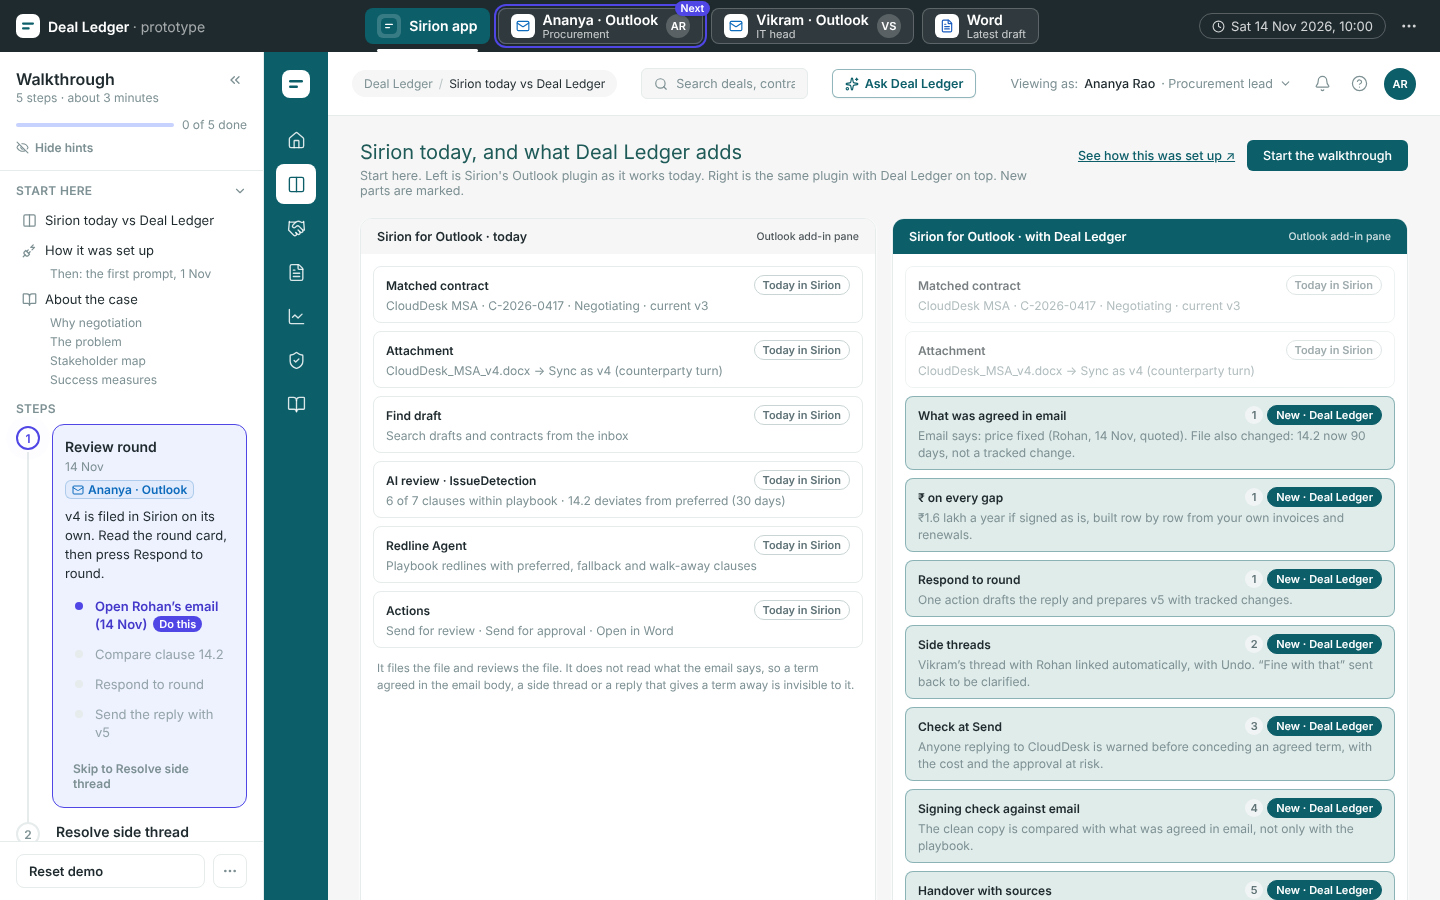
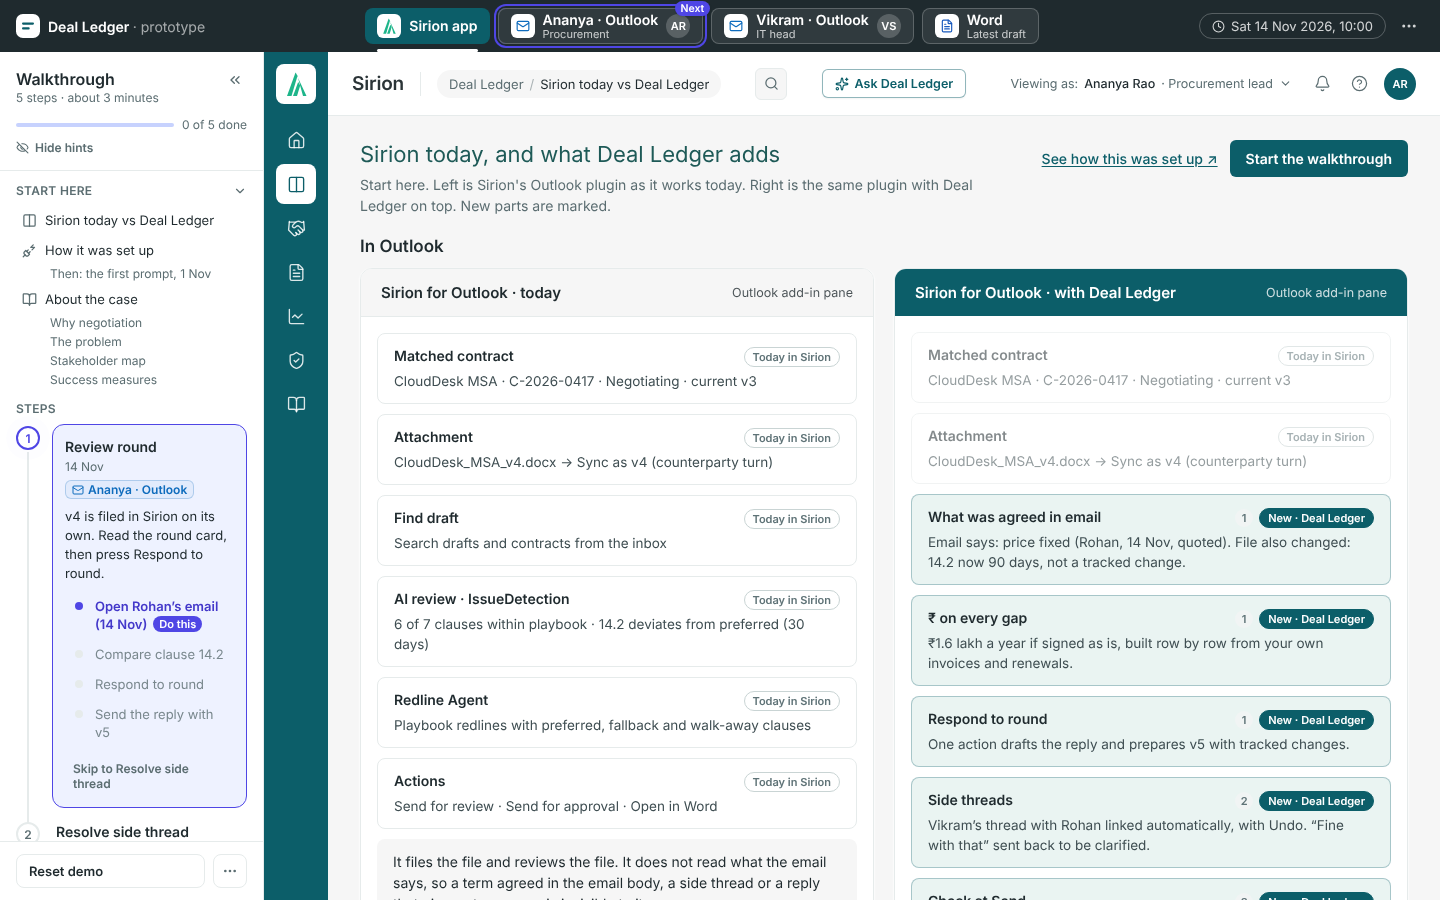
Sirion mark top-left; readable type on the Sirion today page
- Redrawn Sirion mark (SVG) in the app sidebar and the app switcher, with the
  Sirion name in the top bar; Deal Ledger keeps its own mark (CLAUDE.md rule 4
  updated)
- Today page: 14px body text, larger headings, In Word section rebuilt as two
  structured feature lists instead of grey bullet text
- Secondary text colour darkened to 5.3:1 contrast across the app; larger page
  and card captions
- Top bar: search collapses to an icon below 1536px, breadcrumb stays on one line
- Screenshots in docs/screens regenerated

Claude-Session: https://claude.ai/code/session_01TFLZc3kXuMhpPCiCoPvkW9

diff --git a/app/(sirion)/today/page.tsx b/app/(sirion)/today/page.tsx
@@ -1,4 +1,5 @@
 import Link from 'next/link';
+import { Check, Plus } from 'lucide-react';
 import { PageHeader, SirionCard } from '@/components/sirion/ui';
 import { termsFound } from '@/lib/data';
 import { StepBadge, Tag } from '@/components/ui/Tag';
@@ -26,14 +27,32 @@ const NEW = [
   { title: 'Handover with sources', body: 'Obligations and invoice rules each link back to the email line they came from.', step: 5 },
 ];
 
+const WORD_TODAY = [
+  { title: 'Content Library', body: 'Insert approved clauses.' },
+  { title: 'Review', body: 'Track changes, compare versions and flag risk with AI.' },
+  { title: 'Redline Agent', body: 'Preferred, fallback and walk-away clauses.' },
+  { title: 'Approve and publish', body: 'Changes are saved back as a new version.' },
+  { title: 'Share', body: 'Send to the counterparty through the Sirion portal.' },
+];
+
+const WORD_NEW = [
+  { title: 'Ledger lens', body: 'A marker beside every clause shows whether it matches what was agreed in email, with the source and the ₹ at stake.' },
+  { title: 'Edit guard', body: 'An edit that moves an agreed term is flagged as you type, with the cost and the approval it would need.' },
+  { title: 'Insert from ledger', body: 'The exact agreed wording, next to the Content Library, with a supplier-safe comment.' },
+  { title: 'Compare with email', body: 'Each change between rounds is tagged “discussed in email”, “not mentioned in email” or “not a tracked change”.' },
+  { title: 'Signing check', body: 'Runs when the clean copy arrives. Each gap shows the email line it came from and the approval that depends on it.' },
+  { title: '₹ on each option', body: 'A figure on the agreed wording, the fallback and the walk-away.' },
+  { title: 'Supplier-safe comments', body: 'No ₹ figures, internal names or limits in anything the supplier sees.' },
+];
+
 function Pane({ title, tone, children }: { title: string; tone: 'today' | 'new'; children: React.ReactNode }) {
   return (
     <div className="overflow-hidden rounded-xl border border-line bg-white shadow-card">
-      <div className={`flex items-center justify-between px-4 py-2.5 text-[12.5px] font-semibold ${tone === 'today' ? 'bg-page text-ink' : 'bg-teal-900 text-white'}`}>
-        <span>{title}</span>
-        <span className="text-[10.5px] font-medium opacity-80">Outlook add-in pane</span>
+      <div className={`flex items-center justify-between px-5 py-3.5 ${tone === 'today' ? 'border-b border-line bg-page text-ink' : 'bg-teal-900 text-white'}`}>
+        <span className="text-[15px] font-semibold">{title}</span>
+        <span className="text-[12.5px] opacity-80">Outlook add-in pane</span>
       </div>
-      <div className="space-y-2 p-3">{children}</div>
+      <div className="space-y-2.5 p-4">{children}</div>
     </div>
   );
 }
@@ -42,20 +61,43 @@ function Block({ title, body, kind, step }: { title: string; body: string; kind:
   return (
     <div
       className={[
-        'rounded-lg border px-3 py-2 text-[12px] leading-[17px]',
-        kind === 'new' ? 'border-teal-900/40 bg-mint/40' : 'border-line',
-        kind === 'dim' ? 'opacity-60' : '',
+        'rounded-lg border px-4 py-3',
+        kind === 'new' ? 'border-teal-900/30 bg-[#EAF4F2]' : 'border-line bg-white',
+        kind === 'dim' ? 'opacity-55' : '',
       ].join(' ')}
     >
-      <p className="flex items-center justify-between gap-2 font-semibold text-ink">
-        <span>{title}</span>
-        <span className="flex shrink-0 items-center gap-1">
+      <div className="flex items-start justify-between gap-3">
+        <p className="text-[14px] font-semibold leading-[20px] text-ink">{title}</p>
+        <span className="flex shrink-0 items-center gap-1.5 pt-[1px]">
           {kind === 'new' && step ? <StepBadge step={step} /> : null}
           <Tag kind={kind === 'dim' ? 'today' : kind} />
         </span>
-      </p>
-      <p className="mt-0.5 text-muted">{body}</p>
+      </div>
+      <p className="mt-1 text-[13.5px] leading-[20px] text-[#3F4E52]">{body}</p>
     </div>
+  );
+}
+
+function FeatureList({ items, tone }: { items: { title: string; body: string }[]; tone: 'today' | 'new' }) {
+  const Icon = tone === 'new' ? Plus : Check;
+  return (
+    <ul className="divide-y divide-line">
+      {items.map((f) => (
+        <li key={f.title} className="flex gap-3 py-3 first:pt-0 last:pb-0">
+          <span
+            className={`mt-[2px] grid h-5 w-5 shrink-0 place-items-center rounded-full ${
+              tone === 'new' ? 'bg-teal-900 text-white' : 'border border-line bg-page text-muted'
+            }`}
+          >
+            <Icon size={12} strokeWidth={2.5} />
+          </span>
+          <div className="min-w-0">
+            <p className="text-[14px] font-semibold leading-[20px] text-ink">{f.title}</p>
+            <p className="mt-0.5 text-[14px] leading-[21px] text-[#3F4E52]">{f.body}</p>
+          </div>
+        </li>
+      ))}
+    </ul>
   );
 }
 
@@ -67,20 +109,21 @@ export default function TodayPage() {
         caption="Start here. Left is Sirion's Outlook plugin as it works today. Right is the same plugin with Deal Ledger on top. New parts are marked."
         right={
           <span className="flex flex-wrap items-center gap-3">
-            <Link href="/setup" className="text-[12.5px] font-medium text-teal-900 underline">
+            <Link href="/setup" className="text-[14px] font-medium text-teal-900 underline underline-offset-2">
               See how this was set up ↗
             </Link>
-            <Link href="/outlook/ananya?msg=M8" className="rounded-md bg-teal-900 px-4 py-2 text-[12.5px] font-medium text-white">
+            <Link href="/outlook/ananya?msg=M8" className="rounded-md bg-teal-900 px-4 py-2.5 text-[14px] font-semibold text-white hover:bg-teal-700">
               Start the walkthrough
             </Link>
           </span>
         }
       />
 
-      <div className="grid gap-4 lg:grid-cols-2">
+      <h2 className="mb-3 text-[17px] font-semibold text-ink">In Outlook</h2>
+      <div className="grid gap-5 lg:grid-cols-2">
         <Pane title="Sirion for Outlook · today" tone="today">
           {TODAY.map((b) => <Block key={b.title} {...b} kind="today" />)}
-          <p className="px-1 pt-1 text-[11.5px] leading-[17px] text-muted">
+          <p className="rounded-lg bg-page px-4 py-3 text-[14px] leading-[21px] text-ink">
             It files the file and reviews the file. It does not read what the email says, so a term agreed in the email body,
             a side thread or a reply that gives a term away is invisible to it.
           </p>
@@ -92,39 +135,29 @@ export default function TodayPage() {
         </Pane>
       </div>
 
-      <SirionCard title="In Word" className="mt-4">
-        <div className="grid gap-4 text-[12.5px] leading-[19px] md:grid-cols-2">
-          <div>
-            <p className="mb-1 font-semibold text-ink">Sirion for Word · today</p>
-            <ul className="list-disc space-y-0.5 pl-5 text-muted">
-              <li>Insert approved clauses from the Content Library</li>
-              <li>Track changes, compare versions, flag risk with AI</li>
-              <li>Preferred, fallback and walk-away clauses (Redline Agent)</li>
-              <li>Approve, reject or publish; changes saved back as a new version</li>
-              <li>Share with the counterparty through the Sirion portal</li>
-            </ul>
+      <h2 className="mb-3 mt-8 text-[17px] font-semibold text-ink">In Word</h2>
+      <div className="grid gap-5 lg:grid-cols-[minmax(0,5fr)_minmax(0,7fr)]">
+        <section className="rounded-xl border border-line bg-white p-5 shadow-card">
+          <div className="mb-4 flex items-center justify-between gap-3">
+            <h3 className="text-[15px] font-semibold text-ink">Sirion for Word · today</h3>
+            <Tag kind="today" />
           </div>
-          <div>
-            <p className="mb-1 font-semibold text-teal-900">Added by Deal Ledger</p>
-            <ul className="list-disc space-y-0.5 pl-5 text-ink">
-              <li>Ledger lens: a marker beside every clause showing whether it matches what was agreed in email, with the source and ₹</li>
-              <li>Edit guard: an edit typed in Word that moves an agreed term is flagged as you type, with the cost and the approval it would need</li>
-              <li>Insert from ledger: the exact agreed wording, next to the Content Library, with a supplier-safe comment</li>
-              <li>Compare with email: each change between rounds tagged “discussed in email”, “not mentioned in email” or “not a tracked change”</li>
-              <li>The signing check runs when the clean copy arrives, against what was agreed in email</li>
-              <li>Each gap shows the email line it came from and the approval that depends on it</li>
-              <li>A ₹ figure on the agreed wording, the fallback and the walk-away</li>
-              <li>Supplier-safe comments: no ₹, no internal names, no limits</li>
-            </ul>
+          <FeatureList items={WORD_TODAY} tone="today" />
+        </section>
+        <section className="rounded-xl border border-teal-900/30 bg-white p-5 shadow-card">
+          <div className="mb-4 flex items-center justify-between gap-3">
+            <h3 className="text-[15px] font-semibold text-teal-900">Added by Deal Ledger</h3>
+            <Tag kind="new" />
           </div>
-        </div>
-      </SirionCard>
+          <FeatureList items={WORD_NEW} tone="new" />
+        </section>
+      </div>
 
-      <SirionCard title="Why this gap exists" className="mt-4">
-        <p className="text-[12.5px] leading-[19px] text-ink">
-          {OUTSIDE}% of agreed terms in the last {termsFound.windowMonths} months were agreed outside the formal document: in supplier email text, side threads
-          and calls (demo data). Sirion&apos;s plugins work on documents, so those terms only reach Sirion if someone retypes them.
-          Deal Ledger reads them where they are agreed and keeps them in one record.
+      <SirionCard title="Why this gap exists" className="mt-8">
+        <p className="max-w-[860px] text-[15px] leading-[24px] text-ink">
+          <span className="font-semibold">{OUTSIDE}% of agreed terms</span> in the last {termsFound.windowMonths} months were agreed outside the formal
+          document: in supplier email text, side threads and calls (demo data). Sirion&apos;s plugins work on documents, so those terms only reach
+          Sirion if someone retypes them. Deal Ledger reads them where they are agreed and keeps them in one record.
         </p>
       </SirionCard>
     </>

diff --git a/components/sirion/TopBar.tsx b/components/sirion/TopBar.tsx
@@ -8,6 +8,8 @@ import { useDemo, type Role } from '@/lib/store';
 import { useHydrated } from '@/lib/useHydrated';
 import { formatDateTime } from '@/lib/format';
 import { dealById } from '@/lib/data';
+import Link from 'next/link';
+
 
 const ROLES: { id: Role; name: string; role: string; initials: string }[] = [
   { id: 'lead', name: 'Ananya Rao', role: 'Procurement lead', initials: 'AR' },
@@ -56,17 +58,24 @@ export function TopBar() {
   return (
     <header className="relative z-40 flex h-16 shrink-0 items-center justify-between gap-6 border-b border-line bg-white px-6">
       <div className="flex min-w-0 items-center gap-4">
-        <div className="flex items-center gap-1.5 rounded-full bg-page px-3 py-1.5 text-[12px]">
+        <Link href="/" aria-label="Sirion home" className="shrink-0">
+          <span className="text-[19px] font-semibold tracking-[-0.01em] text-[#2B3437]">Sirion</span>
+        </Link>
+        <span aria-hidden className="h-6 w-px shrink-0 bg-line" />
+        <div className="flex min-w-0 items-center gap-1.5 overflow-hidden whitespace-nowrap rounded-full bg-page px-3 py-1.5 text-[13px]">
           {crumbs.map((c, i) => (
-            <span key={c} className="flex items-center gap-1.5">
+            <span key={c} className={`flex items-center gap-1.5 ${i === crumbs.length - 1 ? 'min-w-0' : 'shrink-0'}`}>
               {i > 0 && <span className="text-muted/50">/</span>}
-              <span className={i === crumbs.length - 1 ? 'text-ink' : 'text-muted'}>{c}</span>
+              <span className={i === crumbs.length - 1 ? 'truncate text-ink' : 'text-muted'}>{c}</span>
             </span>
           ))}
         </div>
       </div>
 
-      <div className="hidden min-w-0 max-w-sm flex-1 items-center gap-2 rounded-md border border-line bg-page px-3 py-[7px] lg:flex">
+      <button aria-label="Search" className="grid h-8 w-8 shrink-0 place-items-center rounded-md border border-line bg-page text-muted 2xl:hidden">
+        <Search size={15} strokeWidth={2} />
+      </button>
+      <div className="hidden min-w-[240px] max-w-sm flex-1 items-center gap-2 rounded-md border border-line bg-page px-3 py-[7px] 2xl:flex">
         <Search size={14} className="shrink-0 text-muted" strokeWidth={2} />
         <input
           placeholder="Search deals, contracts and terms"

diff --git a/components/sirion/ui.tsx b/components/sirion/ui.tsx
@@ -41,10 +41,10 @@ export function SirionCard({
         <header className="flex items-start justify-between gap-3 px-6 pb-3 pt-5">
           <div className="min-w-0">
             <div className="flex items-center gap-2">
-              <h2 className="truncate text-[15px] text-teal-title">{title}</h2>
+              <h2 className="truncate text-[16px] text-teal-title">{title}</h2>
               {sample && <SamplePill />}
             </div>
-            {caption && <p className="mt-1 text-[11.5px] text-muted">{caption}</p>}
+            {caption && <p className="mt-1 text-[12.5px] leading-[18px] text-muted">{caption}</p>}
           </div>
           <div className="flex shrink-0 items-center gap-1">
             {right}
@@ -206,8 +206,8 @@ export function PageHeader({
   return (
     <div className="mb-5 flex items-start justify-between gap-6">
       <div className="min-w-0">
-        <h1 className="text-[20px] font-normal text-teal-title">{title}</h1>
-        {caption && <div className="mt-1 text-[12.5px] text-muted">{caption}</div>}
+        <h1 className="text-[22px] font-normal leading-[28px] text-teal-title">{title}</h1>
+        {caption && <div className="mt-1.5 max-w-[860px] text-[14px] leading-[21px] text-muted">{caption}</div>}
       </div>
       {right && <div className="flex shrink-0 items-center gap-2">{right}</div>}
     </div>

diff --git a/components/story/StakeholderMap.tsx b/components/story/StakeholderMap.tsx
@@ -37,7 +37,7 @@ export function StakeholderMap() {
         <Node x={520} y={44} title="Legal" sub="reviews a point in time" />
         <Node x={520} y={264} title="Supplier" sub="talks to everyone" tone="supplier" />
 
-        <text x={360} y={338} textAnchor="middle" fill="#7D9093" fontSize="10.5">
+        <text x={360} y={338} textAnchor="middle" fill="#5B6D71" fontSize="10.5">
           Dashed line: the business owner and the supplier talk directly. That is where most
           unrecorded concessions are made.
         </text>
@@ -82,7 +82,7 @@ function Line({
         markerEnd={dashed ? undefined : 'url(#arrow)'}
       />
       {label && (
-        <text x={lx} y={ly} textAnchor="middle" fill="#7D9093" fontSize="10.5">
+        <text x={lx} y={ly} textAnchor="middle" fill="#5B6D71" fontSize="10.5">
           {label}
         </text>
       )}
@@ -112,7 +112,7 @@ function Node({
       <text x={x + 72} y={y + 22} textAnchor="middle" fill={titleColour} fontSize="12.5" fontWeight="600">
         {title}
       </text>
-      <text x={x + 72} y={y + 38} textAnchor="middle" fill="#7D9093" fontSize="10.5">
+      <text x={x + 72} y={y + 38} textAnchor="middle" fill="#5B6D71" fontSize="10.5">
         {sub}
       </text>
     </g>

diff --git a/components/sirion/Sidebar.tsx b/components/sirion/Sidebar.tsx
@@ -3,7 +3,7 @@
 import Link from 'next/link';
 import { usePathname } from 'next/navigation';
 import { BookOpen, Columns2, FileText, Handshake, Home, LineChart, ShieldCheck } from 'lucide-react';
-import { Mark } from './Mark';
+import { SirionMark } from './SirionMark';
 
 const NAV = [
   { href: '/', icon: Home, label: 'Home' },
@@ -22,8 +22,8 @@ export function Sidebar() {
 
   return (
     <nav className="flex w-16 shrink-0 flex-col items-center gap-1 bg-teal-900 py-3">
-      <Link href="/" className="mb-3 flex h-10 w-10 items-center justify-center" aria-label="Deal Ledger home">
-        <Mark size={28} tone="light" />
+      <Link href="/" className="mb-3 flex h-10 w-10 items-center justify-center rounded-lg bg-white" aria-label="Sirion home">
+        <SirionMark size={28} />
       </Link>
 
       {NAV.map(({ href, icon: Icon, label }) => {

diff --git a/components/demo/apps.tsx b/components/demo/apps.tsx
@@ -6,7 +6,7 @@
  * two always match. Generic icons only (no Microsoft logos or app icons).
  */
 import { FileText, Mail } from 'lucide-react';
-import { Mark } from '@/components/sirion/Mark';
+import { SirionMark } from '@/components/sirion/SirionMark';
 import type { AppKey } from '@/lib/demo/guideState';
 
 export interface AppDef {
@@ -27,7 +27,7 @@ export const APPS: Record<AppKey, AppDef> = {
 };
 
 export function AppIcon({ app, size = 14, light = false }: { app: AppKey; size?: number; light?: boolean }) {
-  if (app === 'sirion') return <Mark size={size + 2} tone={light ? 'light' : 'dark'} />;
+  if (app === 'sirion') return <SirionMark size={size + 4} onDark={light} />;
   const Icon = app === 'word' ? FileText : Mail;
   return <Icon size={size} strokeWidth={2} color={light ? '#FFFFFF' : APPS[app].colour} />;
 }

diff --git a/components/sirion/SirionMark.tsx b/components/sirion/SirionMark.tsx
@@ -1,0 +1,18 @@
+/**
+ * Sirion's mark, redrawn as an SVG from Sirion product screenshots (three
+ * slanted strokes forming an "A"). Used only in the Sirion-style app's top-left
+ * and its app-switcher button. Deal Ledger, our add-on, keeps its own mark.
+ * To use the official file instead, replace the polygons with its paths.
+ */
+const GREEN = '#1DB58A';
+const GREEN_ON_DARK = '#3DD6A8';
+
+export function SirionMark({ size = 28, onDark = false }: { size?: number; onDark?: boolean }) {
+  return (
+    <svg width={size} height={size} viewBox="0 0 28 28" fill={onDark ? GREEN_ON_DARK : GREEN} aria-hidden="true">
+      <polygon points="5,26 9.5,26 15.5,6 13.5,2.5" />
+      <polygon points="11,26 15,26 18.2,15.6 16.2,12" />
+      <polygon points="13.5,2.5 15.5,6 21,26 24.5,26" />
+    </svg>
+  );
+}

diff --git a/components/sirion/charts.tsx b/components/sirion/charts.tsx
@@ -24,7 +24,7 @@ import {
 
 export const SERIES = ['#828BFC', '#0C5E69', '#B1D0CA', '#4364B2', '#E0E767'];
 const GRID = '#EDF1F1';
-const TICK = { fill: '#7D9093', fontSize: 11 };
+const TICK = { fill: '#5B6D71', fontSize: 11 };
 
 const tooltipStyle = {
   contentStyle: {
@@ -47,7 +47,7 @@ function ChartLegend() {
       height={28}
       iconType="square"
       iconSize={9}
-      wrapperStyle={{ fontSize: 11, color: '#7D9093', paddingTop: 6 }}
+      wrapperStyle={{ fontSize: 11, color: '#5B6D71', paddingTop: 6 }}
     />
   );
 }

diff --git a/components/demo/AppSwitcher.tsx b/components/demo/AppSwitcher.tsx
@@ -50,7 +50,7 @@ export function AppSwitcher() {
           >
             <span
               className="grid h-6 w-6 shrink-0 place-items-center rounded-md"
-              style={{ background: isActive ? 'rgba(255,255,255,0.18)' : '#FFFFFF' }}
+              style={{ background: isActive && key !== 'sirion' ? 'rgba(255,255,255,0.18)' : '#FFFFFF' }}
             >
               <AppIcon app={key} size={14} light={isActive && key !== 'sirion'} />
             </span>

diff --git a/components/addin/AnanyaPane.tsx b/components/addin/AnanyaPane.tsx
@@ -590,7 +590,7 @@ export function InlinePaneDrawer() {
             borderBottom: '1px solid #E6EBEB',
           }}
         >
-          <span style={{ fontSize: 12, fontWeight: 500, color: '#7D9093', letterSpacing: '0.04em' }}>
+          <span style={{ fontSize: 12, fontWeight: 500, color: '#5B6D71', letterSpacing: '0.04em' }}>
             SOURCE
           </span>
           <Button size="small" appearance="subtle" icon={<DismissRegular />} onClick={close} />

diff --git a/tailwind.config.ts b/tailwind.config.ts
@@ -30,7 +30,8 @@ const config: Config = {
         card: '#FFFFFF',
         line: '#E6EBEB',
         ink: '#1F2A2E',
-        muted: '#7D9093',
+        // Secondary text: 5.3:1 on white, so captions stay readable (was #7D9093, 3.4:1).
+        muted: '#5B6D71',
         danger: '#C2410C',
         // Walkthrough guide only: never used for product states (green = agreed, teal = Sirion, blue = Microsoft).
         guide: {

diff --git a/components/sirion/Mark.tsx b/components/sirion/Mark.tsx
@@ -1,6 +1,6 @@
 /**
  * Our own mark — a ledger glyph, two short rules in a rounded square.
- * Deliberately not Sirion's logo or wordmark.
+ * The add-on's own mark; Sirion's mark is in SirionMark.tsx.
  */
 export function Mark({ size = 28, tone = 'light' }: { size?: number; tone?: 'light' | 'dark' }) {
   const bg = tone === 'light' ? '#FFFFFF' : '#0C5E69';
